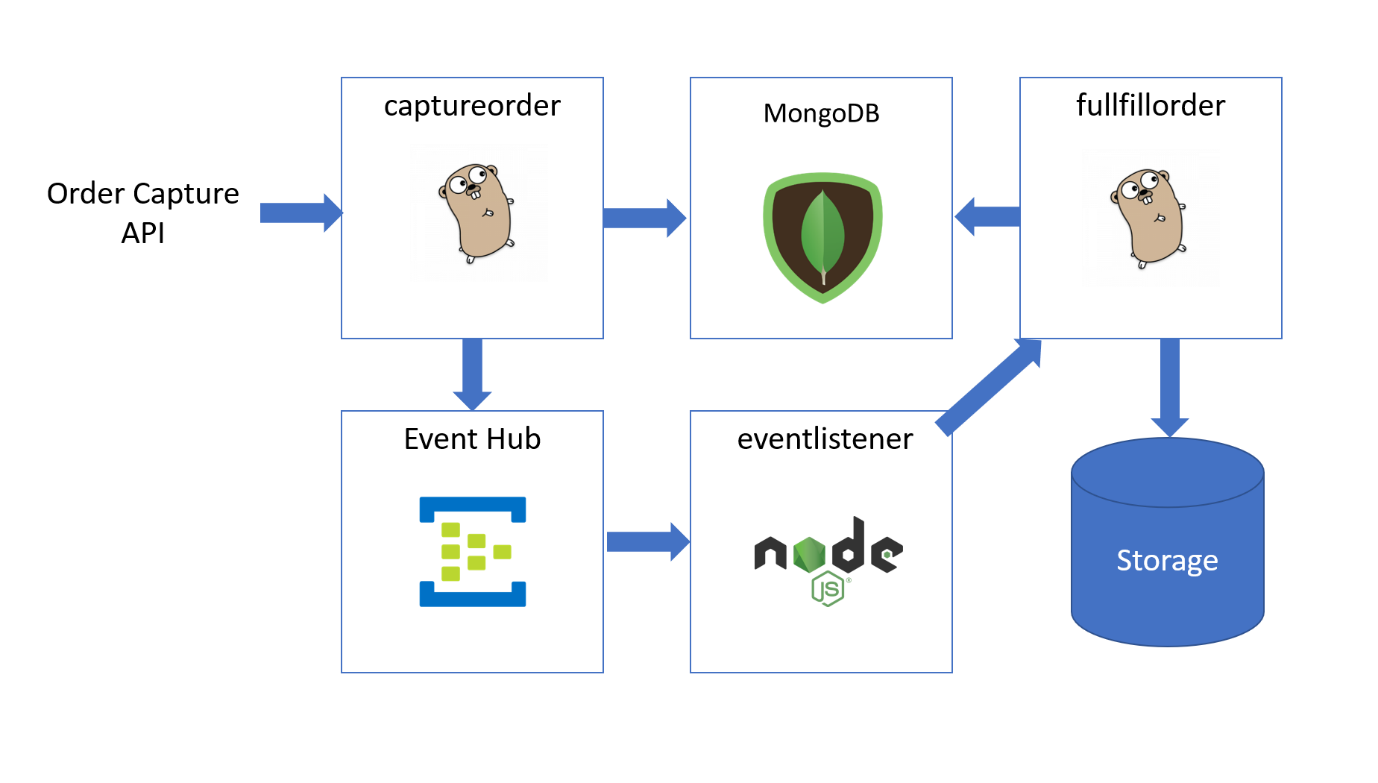
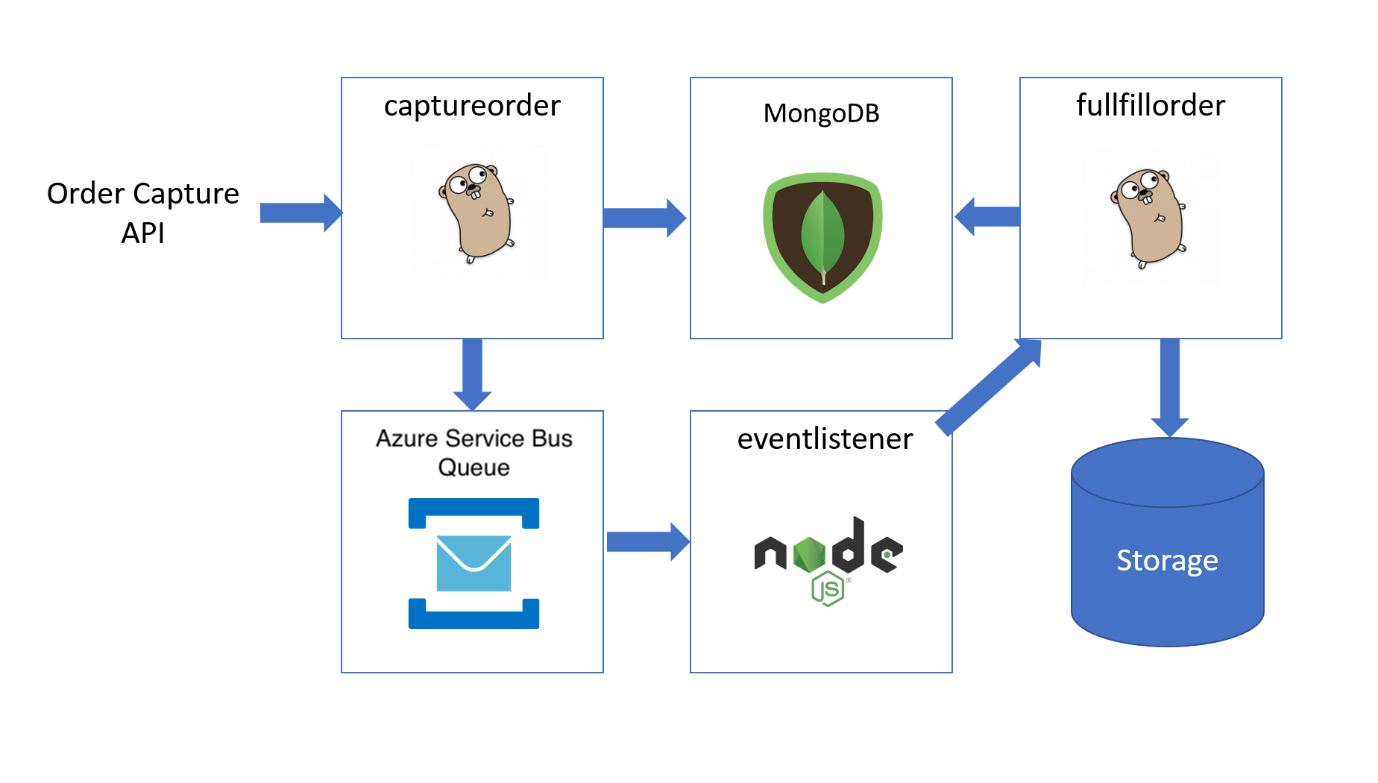
Merged PR 42: TLV updates minus keys

Changed region(s): [[0.2808, 0.613, 0.4057, 0.8276], [0.2808, 0.5517, 0.4369, 0.613]]

diff --git a/_includes/head.html b/_includes/head.html
@@ -4,12 +4,3 @@
 <meta name="author" content="{{ site.author }}">
 <link rel="stylesheet" href="css/main.css">
 <link href='http://fonts.googleapis.com/css?family=Source+Code+Pro:500,600' rel='stylesheet' type='text/css'>
-<script type="text/javascript">
-  var appInsights=window.appInsights||function(a){
-    function b(a){c[a]=function(){var b=arguments;c.queue.push(function(){c[a].apply(c,b)})}}var c={config:a},d=document,e=window;setTimeout(function(){var b=d.createElement("script");b.src=a.url||"https://az416426.vo.msecnd.net/scripts/a/ai.0.js",d.getElementsByTagName("script")[0].parentNode.appendChild(b)});try{c.cookie=d.cookie}catch(a){}c.queue=[];for(var f=["Event","Exception","Metric","PageView","Trace","Dependency"];f.length;)b("track"+f.pop());if(b("setAuthenticatedUserContext"),b("clearAuthenticatedUserContext"),b("startTrackEvent"),b("stopTrackEvent"),b("startTrackPage"),b("stopTrackPage"),b("flush"),!a.disableExceptionTracking){f="onerror",b("_"+f);var g=e[f];e[f]=function(a,b,d,e,h){var i=g&&g(a,b,d,e,h);return!0!==i&&c["_"+f](a,b,d,e,h),i}}return c
-    }({
-        instrumentationKey:"5cbe4212-394a-4f6b-8a0e-7269199249c1"
-    });
-    
-  window.appInsights=appInsights,appInsights.queue&&0===appInsights.queue.length&&appInsights.trackPageView();
-</script>

diff --git a/_entries/01-01 application.md b/_entries/01-01 application.md
@@ -18,59 +18,58 @@ Our application consists of 5 components, namely:
 * A MongoDB database
 
 The order capture API is available at  http://[PublicEndpoint]:[port]/v1/order, and via swagger at http://[PublicEndpoint]:[port]/swagger/.
+Health method is available at http://[PublicEndpoint]:[port]/healthz
 
 Initial versions of the Docker containers have been provided by the development team and are available on Docker Hub at the locations specified. 
 
-**Order Capture API**
-- Docker Image: <https://hub.docker.com/r/shanepeckham/captureorderack/>
-- GitHub Repo: <https://github.com/shanepeckham/captureorderack/>
-
-Required Environment Variables:
-
-*Challenge Logging*
+**Mandatory for all deployments**
 
 ENV TEAMNAME=[YourTeamName]
 
-*Mongo*
+ENV CHALLENGEAPPINSIGHTS_KEY=[AsSpecifiedAtTheEvent]
 
-ENV MONGOHOST="mongodb://[mongoinstance].[namespace]"
-
-*RabbitMQ*
-
-ENV RABBITMQHOST=amqp://[url]:5672
-
-**Event Listener**
-- Docker Image: <https://hub.docker.com/r/shanepeckham/rabbitmqlistenerack/>
-- GitHub Repo: <https://github.com/shanepeckham/rabbitmqlistenerack/> 
+**Order Capture API**
+- Docker Image: <https://hub.docker.com/r/torosent/captureorderack/>
+- GitHub Repo: <https://github.com/torosent/captureorderack/>
 
 Required Environment Variables:
 
-*Challenge Logging*
+*Mongo*
 
-ENV TEAMNAME= Your team name
+ENV MONGOURL="mongodb://[mongoinstance].[namespace]"
+
+**Hint**
+SSL and Username/Password
 
 *RabbitMQ*
 
-ENV RABBITMQHOST=amqp://[url]:5672
-ENV PARTITIONKEY=[0,1,2] ** If you want to use partitions specify a number on your listener
+ENV AMQPURL=amqp://[url]:5672
+
+**Event Listener**
+- Docker Image: <https://hub.docker.com/r/torosent/rabbitmqlistenerack/>
+- GitHub Repo: <https://github.com/torosent/rabbitmqlistenerack/> 
+
+Required Environment Variables:
+
+*RabbitMQ*
+
+ENV AMQPURL=amqp://[url]:5672
 
 *Internal Fulfill order endpoint*
 
 ENV PROCESSENDPOINT=http://[yourfulfillordername].[namespace]:8080/v1/order
 
 **Order Fulfill API**
-- Docker Image: <https://hub.docker.com/r/shanepeckham/fulfillorderack/>
-- GitHub Repo: <https://github.com/shanepeckham/fulfillorderack/>
+- Docker Image: <https://hub.docker.com/r/torosent/fulfillorderack/>
+- GitHub Repo: <https://github.com/torosent/fulfillorderack/>
+
+Health method is available at http://[ServiceEndpoint]:[port]/healthz
 
 Required Environment Variables:
 
-*ACK Logging*
-
-ENV TEAMNAME=[YourTeamName]
-
 *For Mongo*
 
-ENV MONGOHOST="mongodb://[mongoinstance].[namespace]"
+ENV MONGOURL="mongodb://[mongoinstance].[namespace]"
 
 *Order Storage Location*
 

diff --git a/_entries/03-03 sbqueue.md b/_entries/03-03 sbqueue.md
@@ -1,0 +1,17 @@
+---
+sectionid: sbqueue
+sectionclass: h2
+parent-id: enhancing
+title: Swap out Rabbit MQ for Azure Service Bus Queues
+
+---
+Your organisation has decided it wants to reduce the management overhead and
+improve the availability of the Order Capture process by utilising a native Azure
+Service Bus Queue. Replace the Eventlistener RabbitMQ container with a prebuilt Azure
+Service Bus Queue listener container with zero downtime.
+
+* For the Service Bus Queue container, refer to the following:
+- Docker Image and imformation on environment variables - <https://hub.docker.com/r/torosent/sbqueuelistenerack/>
+- Git hub repo - <https://github.com/torosent/sbqueuelistenerack/> 
+
+![](media/25a643873acbb18166772fc1ac25b15d.png)
